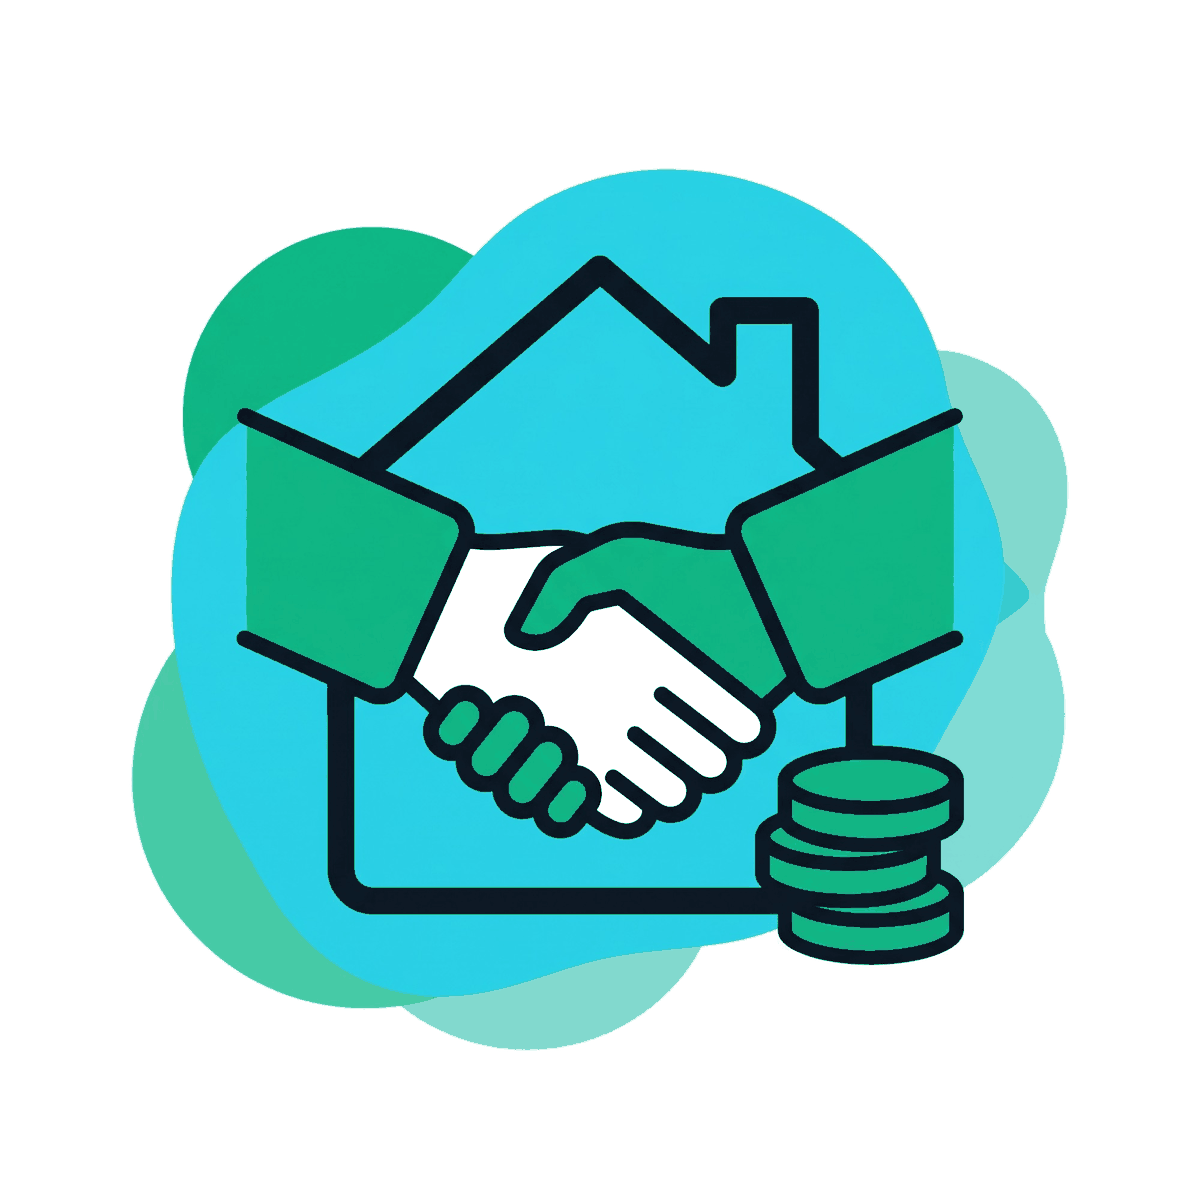
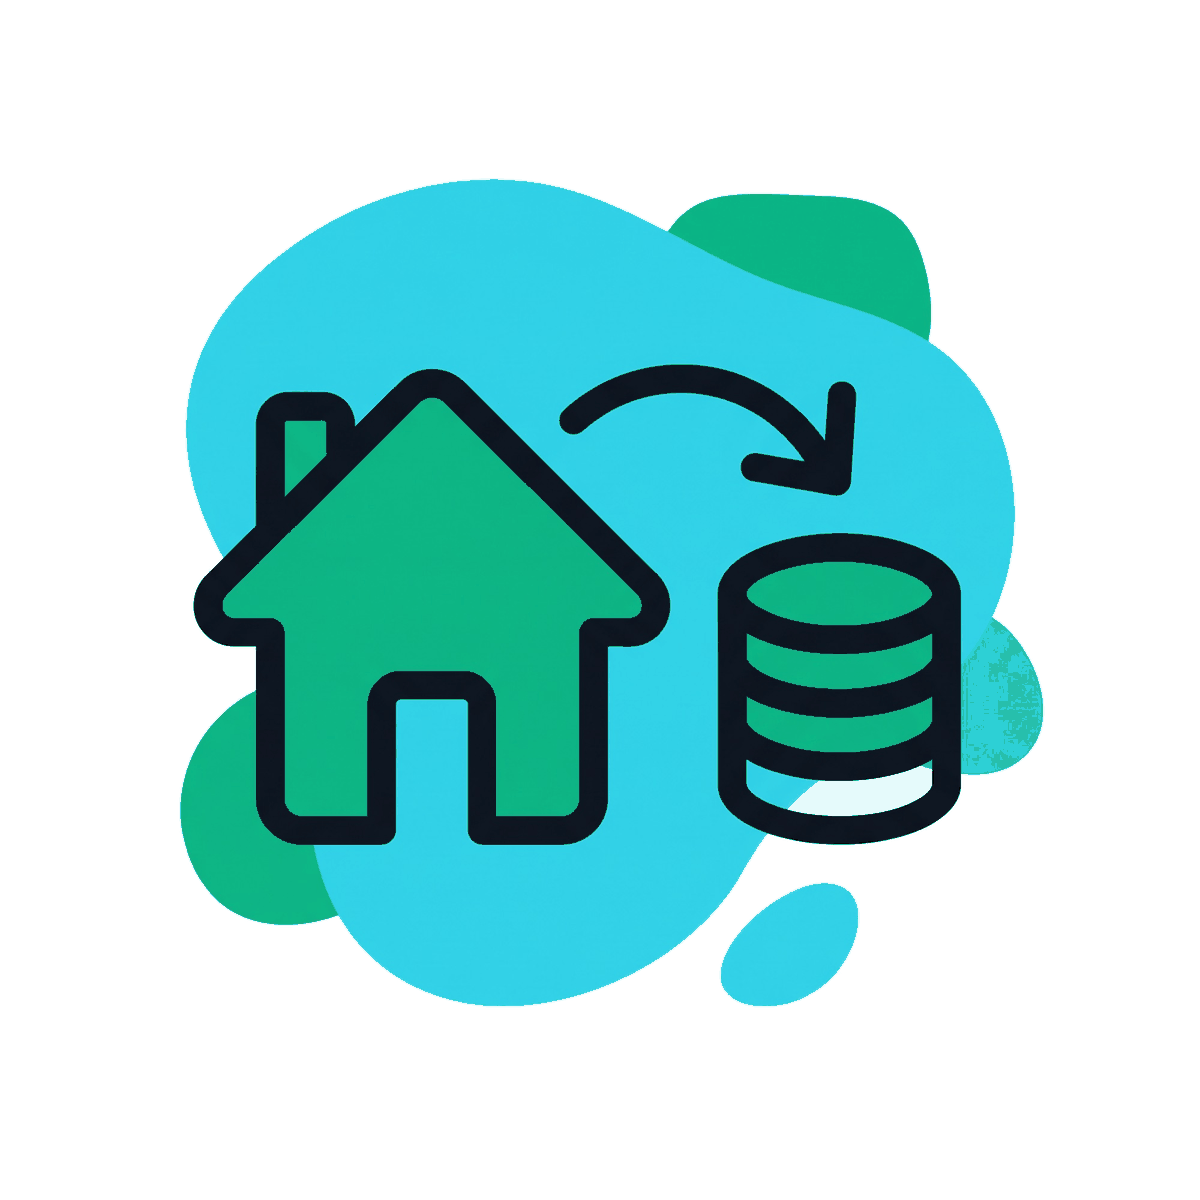
Cztery kolejne ilustracje, lepsza wersja prowizji
Doszly: nieruchomosci, raporty, faktury oraz nowa wersja prowizji. Stara
miala kontur domu splatany z rekawami uscisku dloni i stos monet wiszacy
na patyku; nowa to dom, strzalka i monety, czytelne od razu.

Jedenascie z szesnastu modulow ma teraz wlasna ilustracje. Reszta nadal
na zdjeciach, a siatka na stronie glownej czeka na komplet.

Do README dopisane dwie rzeczy, ktore na oko umykaja przy ocenie nowych
ilustracji: karnacja postaci i kolor wlosow.

diff --git a/lib/marketing/modules.ts b/lib/marketing/modules.ts
@@ -300,6 +300,7 @@ export const MODULES: ProductModule[] = [
     ],
     forWhom:
       "Dla całego zespołu: im większe biuro, tym więcej transakcji wewnętrznych ta baza generuje.",
+    ilustracja: "/ilustracje/nieruchomosci.png",
     photo: "/wzory/kamienica.jpg",
     shot: "ShotOferty",
     faq: [
@@ -623,6 +624,7 @@ export const MODULES: ProductModule[] = [
     ],
     forWhom:
       "Dla właściciela i księgowości. Dostęp do tego modułu nadaje się osobno, bez wglądu w bazę klientów.",
+    ilustracja: "/ilustracje/faktury.png",
     photo: "/wzory/loft.jpg",
     shot: "ShotFaktury",
     faq: [
@@ -670,6 +672,7 @@ export const MODULES: ProductModule[] = [
     ],
     forWhom:
       "Dla właściciela biura i dyrektora. Menedżer widzi pracę swojego zespołu, bez kwot cudzych prowizji.",
+    ilustracja: "/ilustracje/raporty.png",
     photo: "/wzory/hala.jpg",
     shot: "ShotPanel",
     faq: [

diff --git a/public/ilustracje/README.md b/public/ilustracje/README.md
@@ -11,7 +11,13 @@ Obróbka po wygenerowaniu, zanim trafią tutaj:
    kwantyzują się bez widocznej straty, a plik schodzi kilkukrotnie.
 3. Nazwa pliku to slug modułu z `lib/marketing/modules.ts`.
 
-Brakuje jeszcze: nieruchomosci, cele, ai-coach, panel-wlasciciela, faktury,
-raporty, role-i-uprawnienia, strona-www. Dopóki nie ma kompletu, siatka na
-stronie głównej zostaje na zdjęciach, żeby nie mieszać dwóch języków
-wizualnych w jednym widoku.
+Brakuje jeszcze: cele, panel-wlasciciela, strona-www, ai-coach,
+role-i-uprawnienia. Dopóki nie ma kompletu szesnastu, siatka na stronie
+głównej zostaje na zdjęciach, żeby nie mieszać dwóch języków wizualnych
+w jednym widoku.
+
+Dwie rzeczy do sprawdzenia przy każdej nowej ilustracji, bo na oko umykają:
+- **Karnacja.** Postacie mają mieć białe twarze. Jedna wersja przyszła
+  z beżowymi i odstawała od reszty serii. Sprawdzenie: policzyć piksele
+  w zakresie tonu skóry, wzorcowe ilustracje mają ich zero.
+- **Kolor włosów.** Czarne. Zielone włosy psują spójność postaci.
